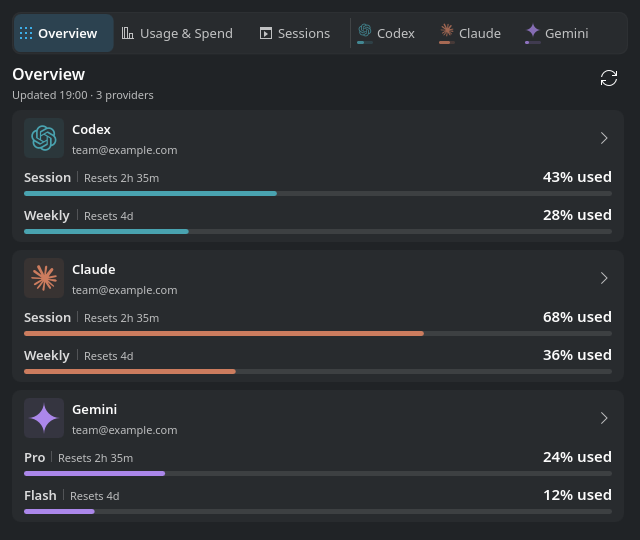
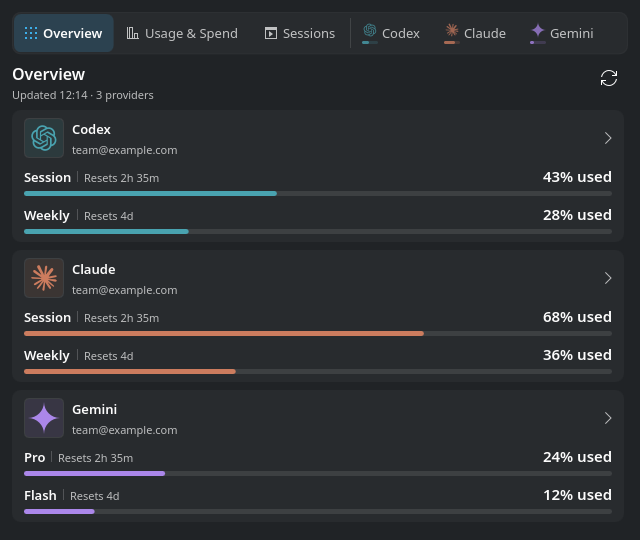
style(popup): align card radius, insets and identity tiles
Give Sessions and Usage & Spend provider cards the Overview card radius
(roundedSurfaceRadius) and horizontal inset, show Overview quota names at
the same full weight as provider pages, and outline the Overview identity
tile like the header and Spend tiles. Lock the shared card geometry in the
popup layout surface test and expose the outer radius token in test mocks.

Documentation: regenerate the README Overview, Sessions and Usage & Spend
captures and add an Unreleased changelog entry. TODO is unchanged because
no parity item or CLI blocker is affected.

diff --git a/contents/ui/components/SpendView.qml b/contents/ui/components/SpendView.qml
@@ -714,7 +714,7 @@ ColumnLayout {
 
                             Layout.fillWidth: true
                             implicitHeight: spendProviderRow.implicitHeight + Kirigami.Units.largeSpacing * 2
-                            radius: view.applet.nestedSurfaceRadius
+                            radius: view.applet.roundedSurfaceRadius
                             // A passive display row: no hover state, because every
                             // other highlighted surface in the popup acts on click
                             // or reveals actions, and this one does neither.
@@ -739,6 +739,8 @@ ColumnLayout {
 
                                 anchors.fill: parent
                                 anchors.margins: Kirigami.Units.largeSpacing
+                                anchors.leftMargin: Kirigami.Units.largeSpacing + Kirigami.Units.smallSpacing
+                                anchors.rightMargin: Kirigami.Units.largeSpacing + Kirigami.Units.smallSpacing
                                 spacing: Kirigami.Units.largeSpacing
 
                                 Rectangle {

diff --git a/contents/ui/components/SessionsView.qml b/contents/ui/components/SessionsView.qml
@@ -235,7 +235,7 @@ ColumnLayout {
 
                     Layout.fillWidth: true
                     Layout.preferredHeight: sessionRow.implicitHeight + Kirigami.Units.largeSpacing * 2
-                    radius: view.applet.nestedSurfaceRadius
+                    radius: view.applet.roundedSurfaceRadius
                     // The card reveals its copy action on hover, so the
                     // surface confirms the hover the same way overview rows do.
                     color: view.applet.withAlpha(Kirigami.Theme.textColor,
@@ -274,6 +274,8 @@ ColumnLayout {
 
                         anchors.fill: parent
                         anchors.margins: Kirigami.Units.largeSpacing
+                        anchors.leftMargin: Kirigami.Units.largeSpacing + Kirigami.Units.smallSpacing
+                        anchors.rightMargin: Kirigami.Units.largeSpacing + Kirigami.Units.smallSpacing
                         spacing: Kirigami.Units.largeSpacing
 
                         Item {

diff --git a/contents/ui/components/OverviewProviderRow.qml b/contents/ui/components/OverviewProviderRow.qml
@@ -113,7 +113,9 @@ Rectangle {
                     + Kirigami.Units.smallSpacing * 2
                 Layout.preferredHeight: Layout.preferredWidth
                 radius: overviewRow.applet.nestedSurfaceRadius
-                color: overviewRow.applet.withAlpha(overviewRow.accent, 0.1)
+                color: overviewRow.applet.withAlpha(overviewRow.accent, 0.12)
+                border.width: 1
+                border.color: overviewRow.applet.withAlpha(Kirigami.Theme.textColor, 0.1)
 
                 Kirigami.Icon {
                     anchors.centerIn: parent
@@ -202,7 +204,6 @@ Rectangle {
 
                         text: overviewMeter.modelData.label || ""
                         font.weight: Font.DemiBold
-                        opacity: overviewRow.applet.valueTextOpacity
                         anchors.left: parent.left
                         anchors.baseline: parent.baseline
                         width: Math.min(implicitWidth, Math.max(0,

diff --git a/tests/tst_global_view_errors.qml b/tests/tst_global_view_errors.qml
@@ -34,6 +34,7 @@ TestCase {
         property bool privacyMode: false
         property real secondaryTextOpacity: 0.7
         property real valueTextOpacity: 0.8
+        property real roundedSurfaceRadius: 8
         property real nestedSurfaceRadius: 4
         property bool costLoading: false
         property string costErrorText: ""

diff --git a/tests/tst_visual_layout.qml b/tests/tst_visual_layout.qml
@@ -260,6 +260,7 @@ TestCase {
         function withAlpha(c, a) {
             return Qt.rgba(c.r, c.g, c.b, a);
         }
+        property real roundedSurfaceRadius: 8
         property real nestedSurfaceRadius: 4
         property bool sessionHostsVary: false
         function capitalize(value) {

diff --git a/tests/test_ui_popup_layout.py b/tests/test_ui_popup_layout.py
@@ -84,13 +84,24 @@ class PopupLayoutTest(unittest.TestCase):
             "radius: applet.roundedSurfaceRadius",
             "id: overviewProviderIdentitySurface",
             "radius: overviewRow.applet.nestedSurfaceRadius",
-            "applet.withAlpha(overviewRow.accent, 0.1)",
+            "applet.withAlpha(overviewRow.accent, 0.12)",
+            "border.color: overviewRow.applet.withAlpha(Kirigami.Theme.textColor, 0.1)",
         ):
             if not code_contains(overview_row_body, polished_overview_fragment):
                 raise AssertionError(
                     "overview rows must retain the rounded provider identity treatment; "
                     f"missing {polished_overview_fragment!r}"
                 )
+        # Sessions and Spend provider cards are top-level surfaces like
+        # Overview rows: same outer radius and horizontal content inset.
+        for card_text, card_name in ((sessions_view_text, "session"), (spend_view_text, "spend provider")):
+            for card_fragment in (
+                "radius: view.applet.roundedSurfaceRadius",
+                "anchors.leftMargin: Kirigami.Units.largeSpacing + Kirigami.Units.smallSpacing",
+                "anchors.rightMargin: Kirigami.Units.largeSpacing + Kirigami.Units.smallSpacing",
+            ):
+                if not code_contains(card_text, card_fragment):
+                    raise AssertionError(f"{card_name} cards must match overview card geometry: {card_fragment}")
         for interaction_fragment in (
             "activeFocusOnTab: true",
             "Accessible.role: Accessible.Button",

diff --git a/tests/test_cost_sections.py b/tests/test_cost_sections.py
@@ -107,6 +107,7 @@ TestCase {
         property real secondaryTextOpacity: 0.7
         property real valueTextOpacity: 0.85
         property real compactMeterTrackHeight: 8
+        property real roundedSurfaceRadius: 8
         property real nestedSurfaceRadius: 4
         property string metricSet: ""
         property string daysSet: ""

diff --git a/CHANGELOG.md b/CHANGELOG.md
@@ -28,6 +28,9 @@ For earlier versions, see [GitHub Releases](https://github.com/Lucenx9/codexbar-
   below it, separate Providers diagnostics from source mode and move Inspect
   redacted settings into that disclosure, and separate the Panel icons-and-meters
   preset from the panel-style note.
+- Give Sessions and Usage & Spend provider cards the same corner radius and
+  side inset as Overview cards, show Overview quota names at the same weight
+  as on provider pages, and outline Overview provider icons like the header.
 
 ### Fixed
 
